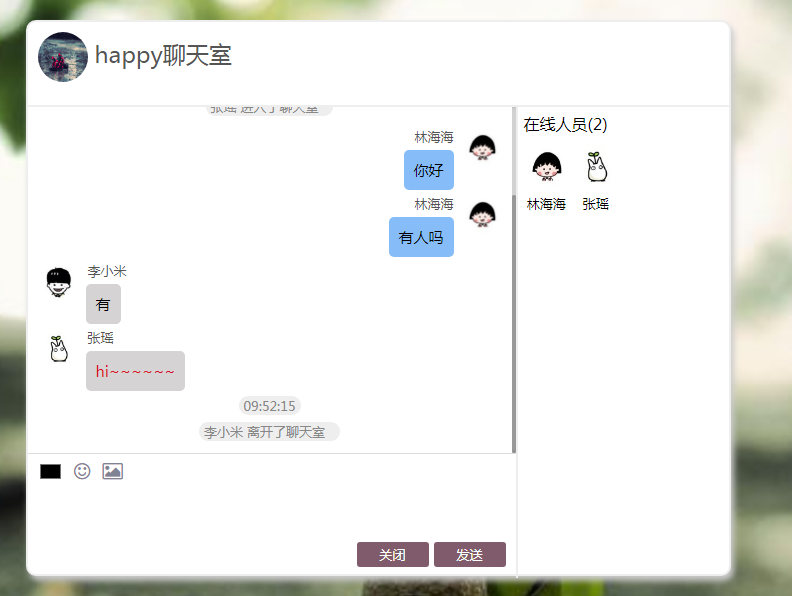
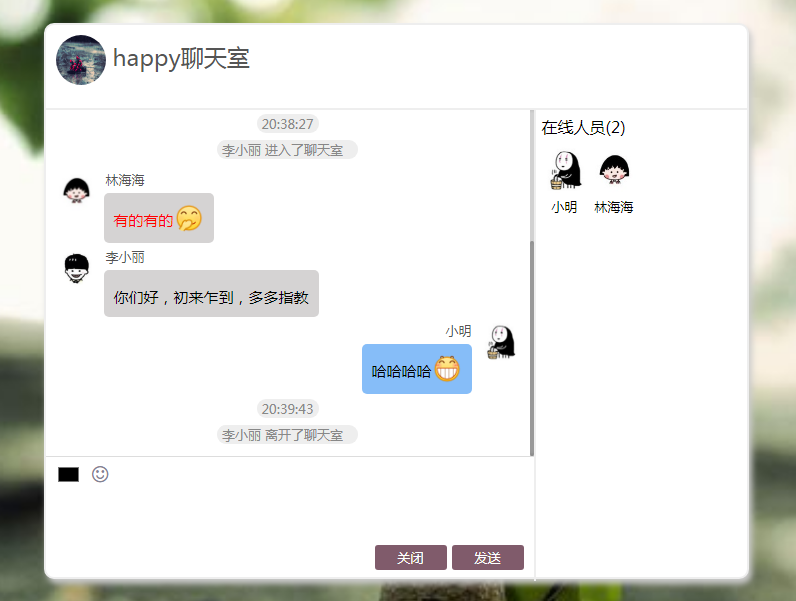
支持发送表情

Changed region(s): [[0.0303, 0.0302, 1.0, 1.0], [0.0, 0.0, 0.5152, 0.2718], [0.2727, 0.1812, 0.4545, 0.2718]]

diff --git a/www/js/chat-client.js b/www/js/chat-client.js
@@ -45,12 +45,25 @@ $(function() {
 
     // 接收消息
     socket.on('receiveMsg', (obj)=> { 
+      // 提取文字中的表情加以渲染
+      var msg = obj.msg;
+      var content = '';
+      while(msg.indexOf('[') > -1) {  // 其实更建议用正则将[]中的内容提取出来
+        var start = msg.indexOf('[');
+        var end = msg.indexOf(']');
+
+        content += '<span>'+msg.substr(0, start)+'</span>';
+        content += '<img src="image/emoji/emoji%20('+msg.substr(start+6, end-start-6)+').png">';
+        msg = msg.substr(end+1, msg.length);
+      }
+      content += '<span>'+msg+'</span>';
+      
       $('#messages').append(`
         <li class='${obj.side}'>
           <img src="${obj.img}">
           <div>
             <span>${obj.name}</span>
-            <p style="color: ${obj.color};">${obj.msg}</p>
+            <p style="color: ${obj.color};">${content}</p>
           </div>
         </li>
       `);
@@ -66,8 +79,7 @@ $(function() {
         alert('请输入内容！');
         return false;
       }
-      color = $('#color').val();
-      console.log(color);
+      color = $('#color').val(); 
       socket.emit('sendMsg', {
         msg: $('#m').val(),
         color: color
@@ -99,30 +111,33 @@ $(function() {
       $('#messages').text('');
       socket.emit('disconnect');
     });
-
-    // 富文本选项卡 
-    $('.edit').click((ev)=> {
-      ev = ev || window.event;
-      var target = ev.target;
-      $('.smile, .img').addClass('none');
-      $('#smile, #img').css('background', 'none');
-      $('.selectBox').css('display', "block");
-      var options = $('.selectBox > div');
-      switch(target.id) {
-        case 'smile':
-          $('#smile').css('backgroundColor', '#e2e2e2');
-          $('.smile').removeClass('none');
-          break;
-        case 'img':
-          $('#img').css('backgroundColor', '#e2e2e2');
-          $('.img').removeClass('none');
-          break; 
+ 
+    // 渲染表情
+    init();
+    function init() {
+      for(var i = 0; i < 141; i++) {
+        $('.emoji').append('<li id='+i+'><img src="image/emoji/emoji ('+(i+1)+').png"></li>');
       }
+    }
+
+    // 显示表情
+    $('#smile').click(()=> {
+      $('.selectBox').css('display', "block");
     });
-    $('.edit').dblclick((ev)=> { 
-      $('.smile, .img').addClass('none');
+    $('#smile').dblclick((ev)=> { 
       $('.selectBox').css('display', "none");
-      $('#smile, #img').css('background', 'none'); 
+    });  
+    $('#m').click(()=> {
+      $('.selectBox').css('display', "none");
     }); 
 
+    // 用户点击发送表情
+    $('.emoji li img').click((ev)=> {
+        ev = ev || window.event;
+        var src = ev.target.src;
+        var emoji = src.replace(/\D*/g, '').substr(6, 8);
+        var old = $('#m').val();
+        $('#m').val(old+'[emoji'+emoji+']');
+        $('.selectBox').css('display', "none");
+    });
 });

diff --git a/www/style/index.css b/www/style/index.css
@@ -115,6 +115,16 @@ p.system span {
     height: 40px;
     border-radius: 20px;
 }
+#messages li p img {
+    width: 30px;
+    height: 30px;
+    margin: 0;
+    padding: 0;
+    vertical-align: bottom;
+}
+#messages li p span {
+    padding-top: 7px;  
+}
 .left img {
     margin-right: 8px;
 }
@@ -136,13 +146,13 @@ p.system span {
 .right img, .right div {
     float: right;
 }
-#messages li div span {
+#messages li div>span {
     display: block;
     color: #555; 
     padding-left: 2px;
 }
 #messages li div p {
-    display: inline-block;
+    display: flex;
     max-width: 300px;
     height: auto;
     padding: 10px;
@@ -175,19 +185,19 @@ form {
     padding: 5px 6px;
 }
 .edit i:hover {
-    background-color: #e2e2e2;
+    background-color: #e2e2e2 !important;
 }
 .edit .selectBox {
     display: none;
     position: absolute;
-    bottom: 30px;
-    left: 10px;
+    bottom: 34px;
+    left: 0px;
     z-index: 3;
     background-color: #fff;
 }
 .edit .none {
     display: none;
-}
+} 
 #color {
     width: 25px;
     border: none;
@@ -197,8 +207,63 @@ form {
 #color:focus {
     outline: none;
 }
+.smile {
+    width: 460px;
+    height: auto;
+    border: 1px #eee solid; 
+    box-shadow: 1px 1px 1px #ccc;
+    padding-top: 5px;
+    box-sizing: border-box;
+}
+.smile p {
+    height: 35px;
+    font-size: 15px;
+    color: #555;
+    line-height: 35px;
+    padding-left: 20px;
+    box-sizing: border-box;
+}
+.emoji {
+    width: 100%;
+    height: 210px; 
+    overflow-y: scroll;
+    padding: 0 17px;
+}
+.emoji li {
+    list-style: none;
+    width: 35px;
+    height: 35px;
+    line-height: 35px;
+    box-sizing: border-box;
+    overflow: hidden;
+    padding-top: 4px;
+    padding-left: 2px;
+    display: inline-block;
+    margin: 0;
+}
+.emoji li:hover {
+    padding-top: 1px;
+    background-color: #f3f3f4;
+}
+.emoji li img {
+    width: 30px;
+    height: 30px;
+}
 
-
+.emoji::-webkit-scrollbar {/*滚动条整体样式*/
+    width: 4px;     /*高宽分别对应横竖滚动条的尺寸*/
+    height: 4px;
+}
+.emoji::-webkit-scrollbar-thumb {/*滚动条里面小方块*/
+    border-radius: 5px;
+    -webkit-box-shadow: inset 0 0 5px rgba(0,0,0,0.2);
+    background: rgba(0,0,0,0.2);
+}
+.emoji::-webkit-scrollbar-track {/*滚动条里面轨道*/
+    -webkit-box-shadow: inset 0 0 5px rgba(0,0,0,0.2);
+    border-radius: 0;
+    background: rgba(0,0,0,0.1);
+}
 
 
 

diff --git a/www/index.html b/www/index.html
@@ -26,16 +26,17 @@
                   <div class="edit"> 
                     <input type="color" id="color" value="#000000">
                     <i title="双击取消选择" class="fa fa-smile-o" id="smile">
-                    </i><i title="双击取消选择" class="fa fa-picture-o" id="img"></i>
+                    </i>
+                    <!-- <i class="fa fa-picture-o" id="img"></i> -->
                     <div class="selectBox"> 
-                      <div class="smile"> 
-                      </div>
-                      <div class="img"> 
-                      </div>
+                      <div class="smile" id="smileDiv"> 
+                        <p>经典表情</p>
+                        <ul class="emoji"></ul>
+                      </div> 
                     </div>
                   </div>
                   <!-- autocomplete禁用自动完成功能 -->
-                  <textarea id="m"></textarea>
+                  <textarea id="m" autofocus></textarea>
                   <button class="btn rBtn" id="sub">发送</button>
                   <button class="btn" id="clear">关闭</button>
               </form>

diff --git a/README.md b/README.md
@@ -17,10 +17,10 @@ node server.js
 > node+express+socket.io+jquery+flex
 
 ## 实现功能
+- 登录检测
+- 系统提示在线人员状态（进入/离开）
 - 接收与发送消息 
 - 自定义消息字体颜色
-- 系统提示在线人员状态（进入/离开）
-- 登录检测
-## 有待完成
 - 支持发送表情
+## 有待完成
 - 支持发送图片
